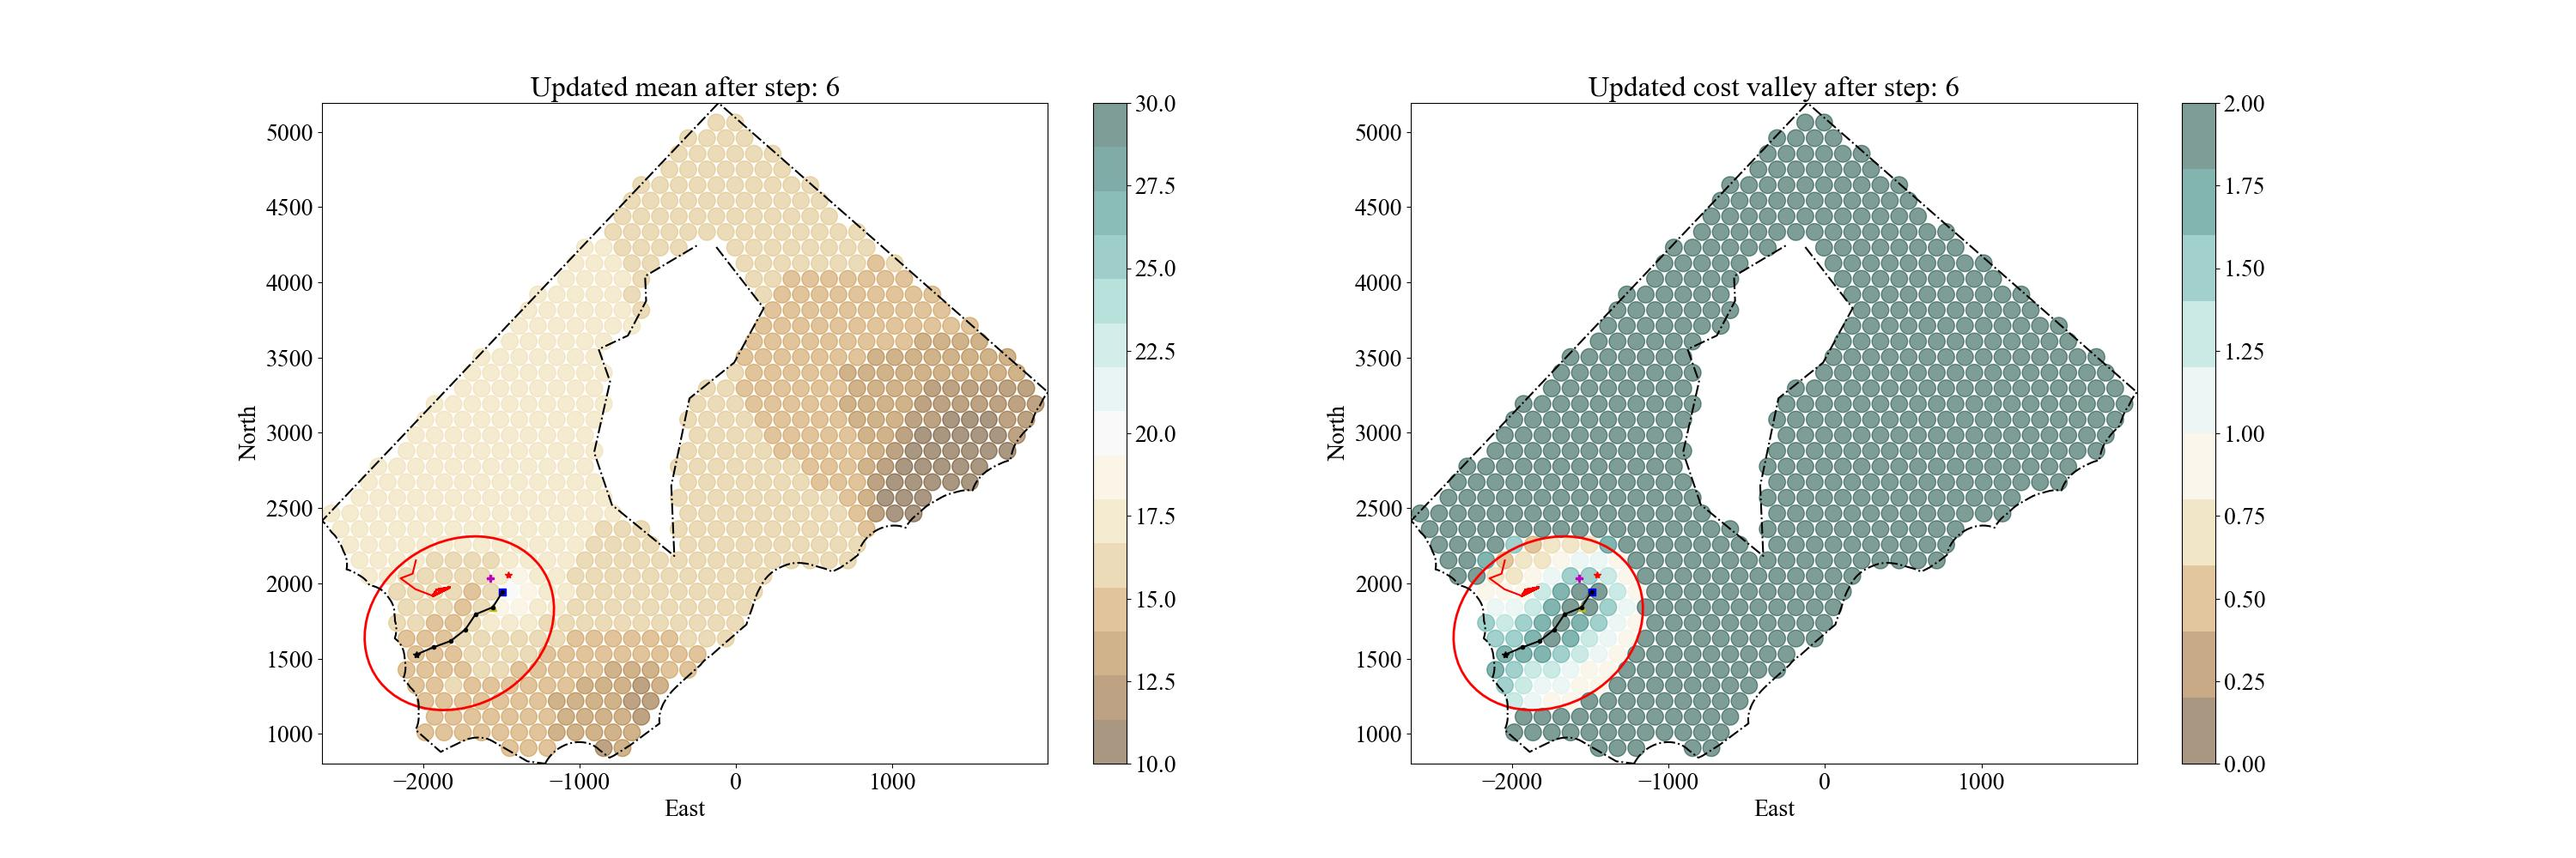
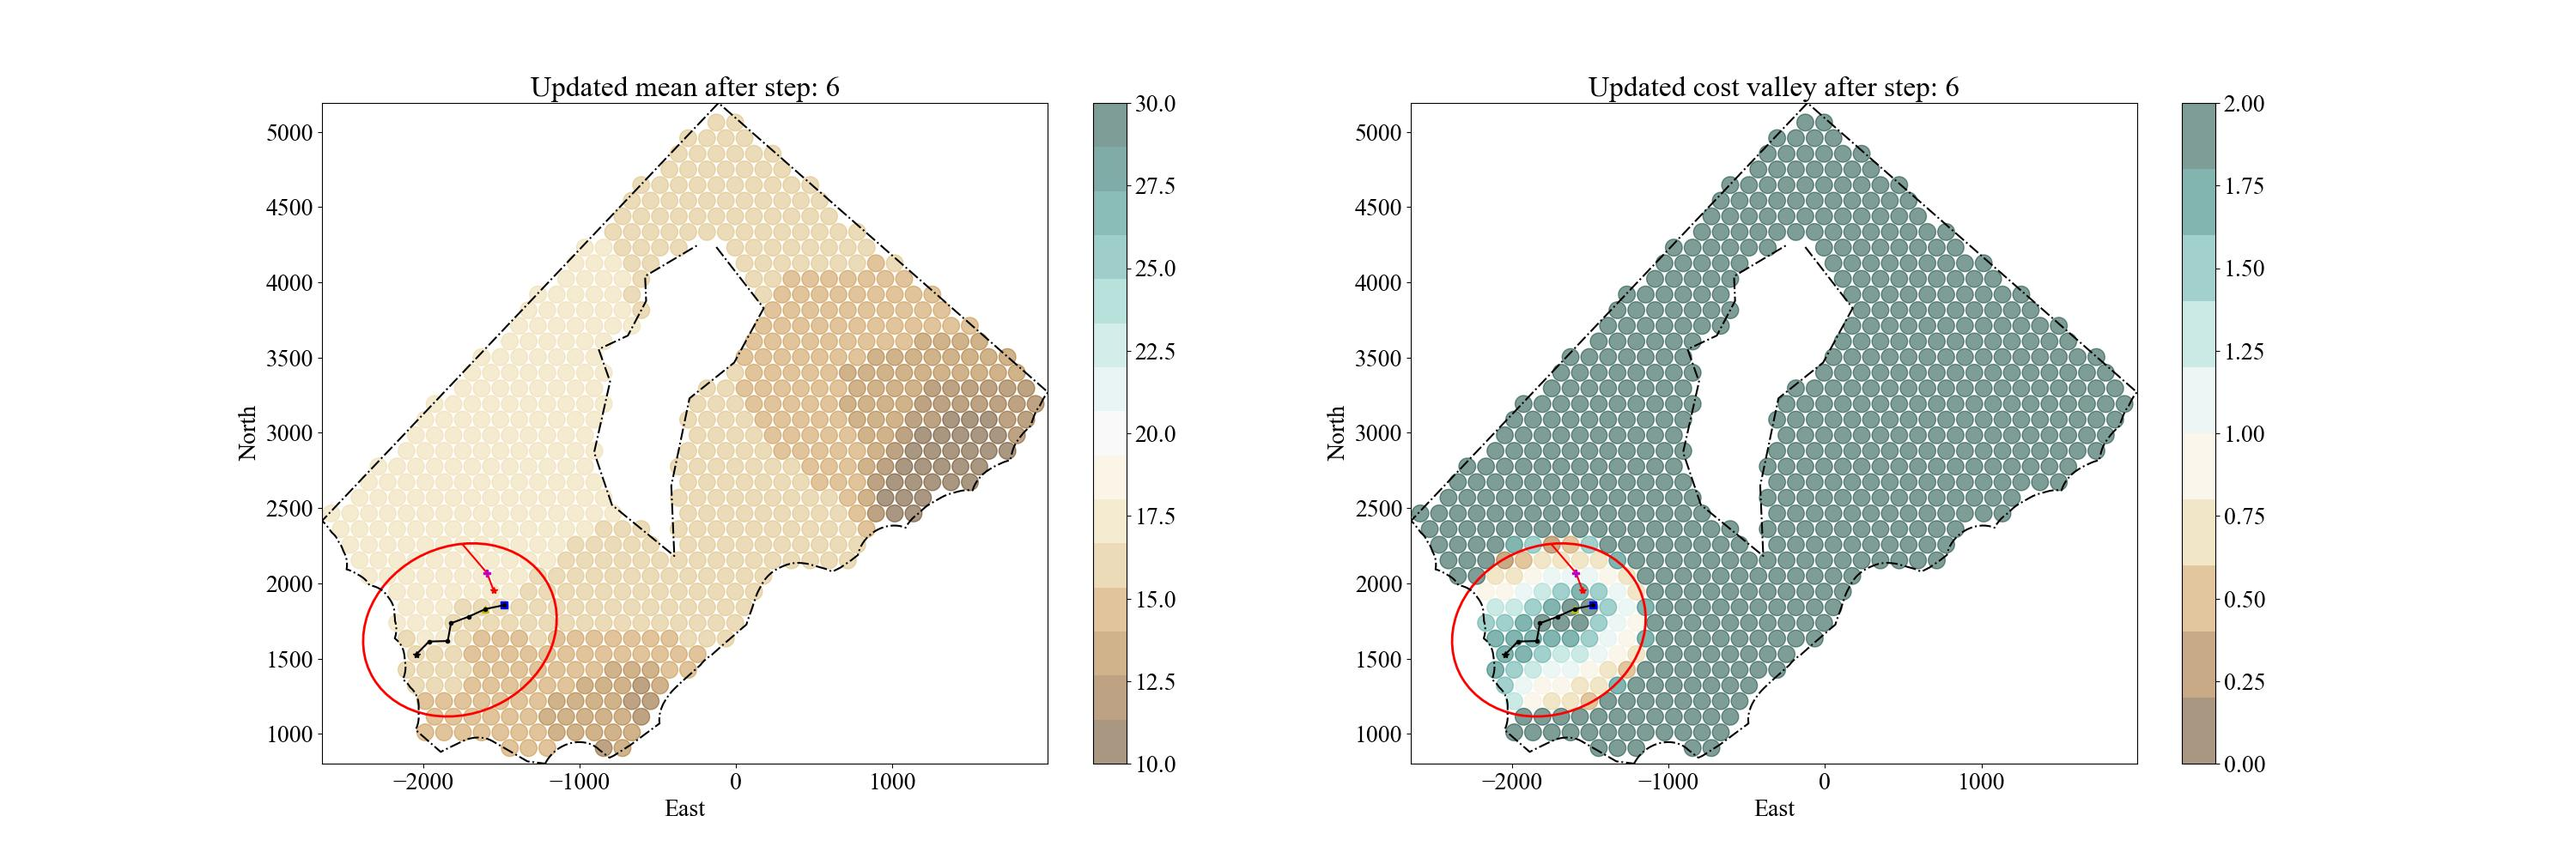
update_crash

Changed region(s): [[0.558, 0.62, 0.651, 0.837], [0.124, 0.62, 0.217, 0.837]]

diff --git a/Simulation_2DNidelva/HITLAR1MPR/GOOGLE2Launcher.py b/Simulation_2DNidelva/HITLAR1MPR/GOOGLE2Launcher.py
@@ -29,6 +29,7 @@ if not CRASH:
     np.savetxt(FILEPATH + "Backup/current_location.txt", np.array([X_START, Y_START]), delimiter = ", ")
     print("Current location is saved successfully!")
 # ==
+print("Crash state: ", CRASH)
 
 
 class GOOGLE2Launcher:
@@ -90,12 +91,14 @@ class GOOGLE2Launcher:
     def run(self):
         # self.x_current = X_START
         # self.y_current = Y_START
+        print("Current location: ", self.x_current, self.y_current)
         self.x_previous = self.x_current
         self.y_previous = self.y_current
 
         self.counter_waypoint = 0
         self.auv_data = []
         self.set_waypoint_to_xy(self.x_current, self.y_current)
+        print("set waypoint to current location: ", self.x_current, self.y_current)
 
         mu = self.grfar_model.mu_cond.flatten()
         Sigma = self.grfar_model.Sigma_cond

diff --git a/Simulation_2DNidelva/grfar_model.py b/Simulation_2DNidelva/grfar_model.py
@@ -16,8 +16,8 @@ from usr_func import vectorise
 
 
 # == Parameters
-SIGMA = 2
-LATERAL_RANGE = 450
+SIGMA = 2.8
+LATERAL_RANGE = 680
 AR1_COEF = .965 # trained based on SINMOD data on May-27-2021
 # ==
 

diff --git a/Simulation_2DNidelva/Config/Config.py b/Simulation_2DNidelva/Config/Config.py
@@ -19,7 +19,7 @@ LONGITUDE_ORIGIN = 10.3969375
 
 # == GP kernel
 THRESHOLD = 27
-NUGGET = .1  # .03
+NUGGET = .7  # .03
 # ==
 
 # == Path planner
